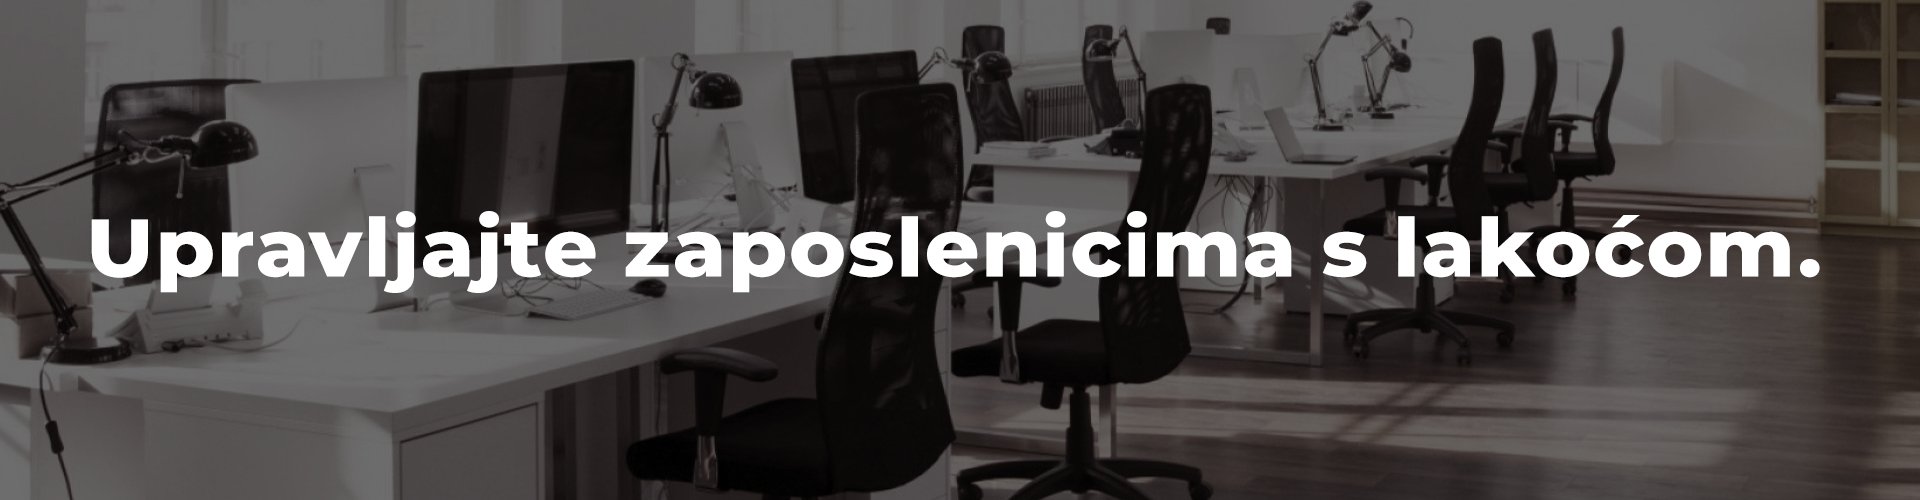
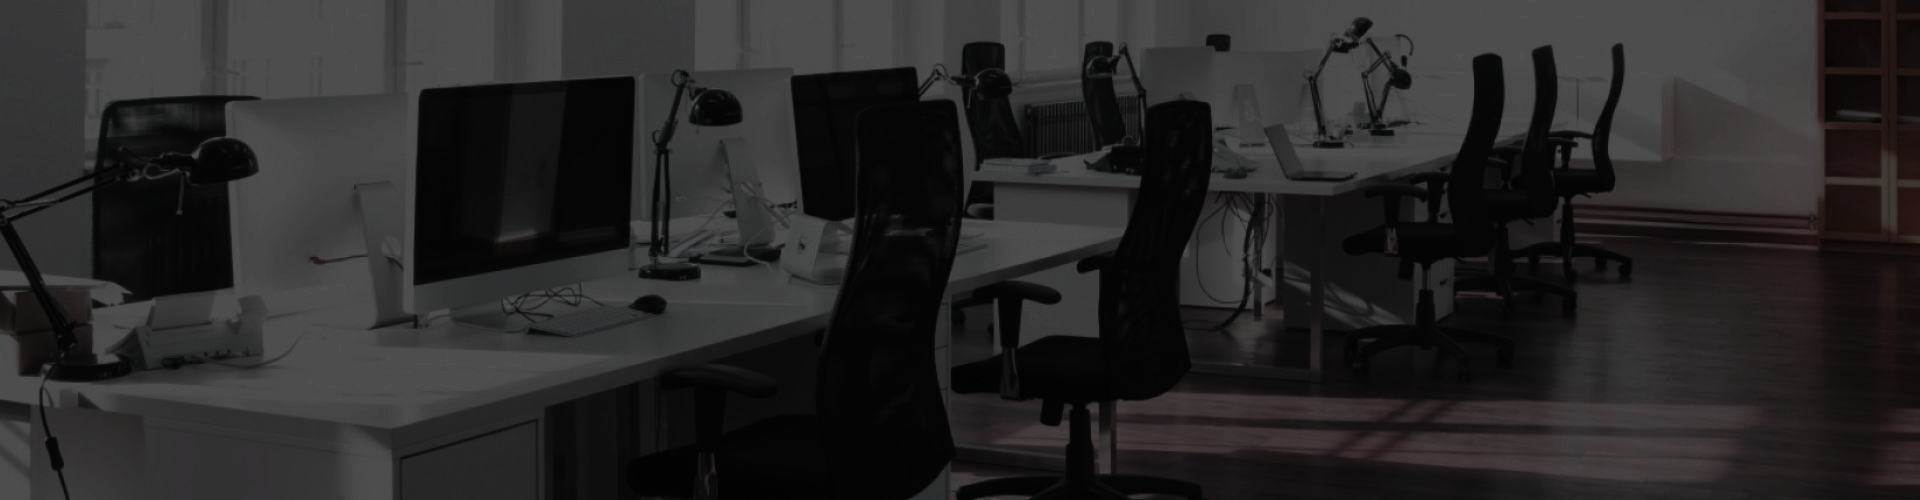
Homepage update

diff --git a/bevidence/src/views/Home.vue b/bevidence/src/views/Home.vue
@@ -16,6 +16,13 @@
           <h1 class="headline">
             <b>Upravljanje poduzećem nikad nije bilo lakše.</b>
           </h1>
+          <svg xmlns="http://www.w3.org/2000/svg" viewBox="0 0 1440 320">
+            <path
+              fill="#f84545"
+              fill-opacity="1"
+              d="M0,192L34.3,208C68.6,224,137,256,206,234.7C274.3,213,343,139,411,133.3C480,128,549,192,617,192C685.7,192,754,128,823,101.3C891.4,75,960,85,1029,117.3C1097.1,149,1166,203,1234,186.7C1302.9,171,1371,85,1406,42.7L1440,0L1440,320L1405.7,320C1371.4,320,1303,320,1234,320C1165.7,320,1097,320,1029,320C960,320,891,320,823,320C754.3,320,686,320,617,320C548.6,320,480,320,411,320C342.9,320,274,320,206,320C137.1,320,69,320,34,320L0,320Z"
+            ></path>
+          </svg>
           <div class="carousel-div">
             <div
               id="carouselExampleSlidesOnly"
@@ -26,27 +33,43 @@
                 <div class="carousel-item active">
                   <img
                     class="d-block w-50"
-                    src="../assets/background-image.png"
-                    alt="First slide"
+                    src="../assets/showcase/poduzece-details.png"
                   />
                 </div>
                 <div class="carousel-item">
                   <img
                     class="d-block w-50"
-                    src="../assets/background-image.png"
-                    alt="Second slide"
+                    src="../assets/showcase/poduzece-edit.png"
                   />
                 </div>
                 <div class="carousel-item">
                   <img
                     class="d-block w-50"
-                    src="../assets/background-image.png"
-                    alt="Third slide"
+                    src="../assets/showcase/poduzece-show.png"
+                  />
+                </div>
+                <div class="carousel-item">
+                  <img
+                    class="d-block w-50"
+                    src="../assets/showcase/radnik-add.png"
+                  />
+                </div>
+                <div class="carousel-item">
+                  <img
+                    class="d-block w-50"
+                    src="../assets/showcase/radnik-details.png"
                   />
                 </div>
               </div>
             </div>
           </div>
+          <svg xmlns="http://www.w3.org/2000/svg" viewBox="0 0 1440 320">
+            <path
+              fill="#f84545"
+              fill-opacity="1"
+              d="M0,192L34.3,208C68.6,224,137,256,206,234.7C274.3,213,343,139,411,133.3C480,128,549,192,617,192C685.7,192,754,128,823,101.3C891.4,75,960,85,1029,117.3C1097.1,149,1166,203,1234,186.7C1302.9,171,1371,85,1406,42.7L1440,0L1440,0L1405.7,0C1371.4,0,1303,0,1234,0C1165.7,0,1097,0,1029,0C960,0,891,0,823,0C754.3,0,686,0,617,0C548.6,0,480,0,411,0C342.9,0,274,0,206,0C137.1,0,69,0,34,0L0,0Z"
+            ></path>
+          </svg>
           <div class="container">
             <div class="row container-place">
               <div class="col-sm">
@@ -63,8 +86,30 @@
               </div>
             </div>
           </div>
-          <div class="col">
-            <img src="../assets/footerpic.png" alt="" />
+          <div class="footer-pic">
+            <h1 class="headline-2">
+              <b>Upravljajte zaposlenicima s lakoćom</b>
+            </h1>
+          </div>
+          <div class="footer-register">
+            <div class="container">
+              <div class="row">
+                <button>
+                  <router-link to="/register">REGISTRIRAJ SE!</router-link>
+                </button>
+              </div>
+            </div>
+          </div>
+          <div class="footer-headline">
+            <div class="container">
+              <div class="row">
+                <div class="col-sm"></div>
+                <div class="col-sm rights">
+                  © Bevidence 2022. All Rights Reserved.
+                </div>
+                <div class="col-sm"></div>
+              </div>
+            </div>
           </div>
         </div>
       </div>
@@ -121,6 +166,52 @@ export default {
 </script>
 
 <style scoped>
+.footer-headline {
+  background-color: rgb(43, 43, 43);
+  height: 150px;
+  color: white;
+  text-align: center;
+}
+
+.footer-register {
+  background-color: #f84545;
+  padding: 80px;
+}
+
+.footer-register button {
+  cursor: default;
+}
+
+.footer-register button a {
+  padding: 20px;
+  border: 1px solid white;
+  width: 15%;
+  margin: auto;
+  transition: 0.4s;
+  color: white;
+  text-decoration: none;
+}
+
+.footer-register button a:hover {
+  background-color: white;
+  color: #f84545;
+  transition: 0.4s;
+}
+
+.footer-pic {
+  margin-top: 0px;
+}
+
+.rights {
+  position: relative;
+  top: 60px;
+  color: gray;
+}
+
+::selection {
+  background: rgb(80, 12, 8);
+}
+
 .grid-container {
   width: 100%;
 }
@@ -132,7 +223,14 @@ export default {
 
 .container-place img {
   height: 150px;
-  padding-top: 40px;
+  padding-top: 60px;
+  margin-top: -15%;
+  transition: 0.4s;
+}
+
+.container-place img:hover {
+  height: 160px;
+  transition: 0.4s;
 }
 
 div h2 {
@@ -141,27 +239,36 @@ div h2 {
 }
 
 .carousel-div {
-  padding: 50px;
   background-color: #f84545;
 }
 
 .headline {
   padding: 50px;
   width: 40%;
-  margin: auto;
+  margin: 50px auto 20px auto;
   text-align: center;
   color: #f84545;
   font-size: 4rem;
 }
+
+.headline-2 {
+  padding: 200px;
+  width: 100%;
+  margin: auto;
+  text-align: center;
+  color: white;
+  font-size: 4rem;
+}
 .main-body {
+  position: relative;
   height: 100vh;
 }
 
 .carousel-item img {
-  box-shadow: 0 4px 8px 0 rgba(0, 0, 0, 0.2), 0 2px 20px 0 rgba(0, 0, 0, 0.19);
+  width: 70% !important;
+  box-shadow: 0 4px 8px 0 rgba(0, 0, 0, 0.2), 0 6px 20px 0 rgba(0, 0, 0, 0.19);
   border-radius: 5px;
-  margin: auto;
-  width: 40% !important;
+  margin: 25px auto 25px auto;
 }
 
 .carousel-item {
@@ -169,26 +276,52 @@ div h2 {
   z-index: 2;
 }
 
-.home {
-  /* background-image: url("../assets/background-image.png"); */
-  height: 100vh;
+.footer-pic {
+  height: 500px;
+  background-image: url("../assets/footerpic.png");
+  width: 100%;
+}
+@media screen and (max-width: 1300px) {
+  .headline {
+    width: 80%;
+  }
+  .headline-2 {
+    padding: 150px;
+  }
 }
 
 @media screen and (max-width: 800px) {
-  h1 {
+  .headline {
+    width: 100%;
+  }
+  .headline-2 {
+    margin: auto;
+    padding: 130px;
     font-size: 60px;
   }
 }
 
-@media screen and (max-width: 600px) {
-  h1 {
+@media screen and (max-width: 700px) {
+  .headline-2 {
+    margin: auto;
+    padding: 120px;
+    font-size: 60px;
+  }
+}
+
+@media screen and (max-width: 650px) {
+  .headline-2 {
+    margin: auto;
+    padding: 120px;
     font-size: 50px;
   }
 }
 
-@media screen and (max-width: 400px) {
-  h1 {
-    font-size: 40px;
+@media screen and (max-width: 600px) {
+  .headline-2 {
+    margin: auto;
+    padding: 120px;
+    font-size: 45px;
   }
 }
 </style>

diff --git a/bevidence/src/components/Preloader.vue b/bevidence/src/components/Preloader.vue
@@ -34,13 +34,16 @@ export default {
   align-items: center;
   justify-content: center;
   position: absolute;
+  top: 0;
   width: 100%;
-  height: 100%;
+  height: 200vh;
   background-color: white;
   z-index: 9999;
 }
 
 .logo {
+  position: relative;
+  top: -500px;
   background-repeat: no-repeat;
 }
 

diff --git a/bevidence/src/App.vue b/bevidence/src/App.vue
@@ -107,7 +107,7 @@ body {
 }
 
 .white-logo {
-  width: 150px;
+  width: 200px;
   padding: 5px;
 }
 
